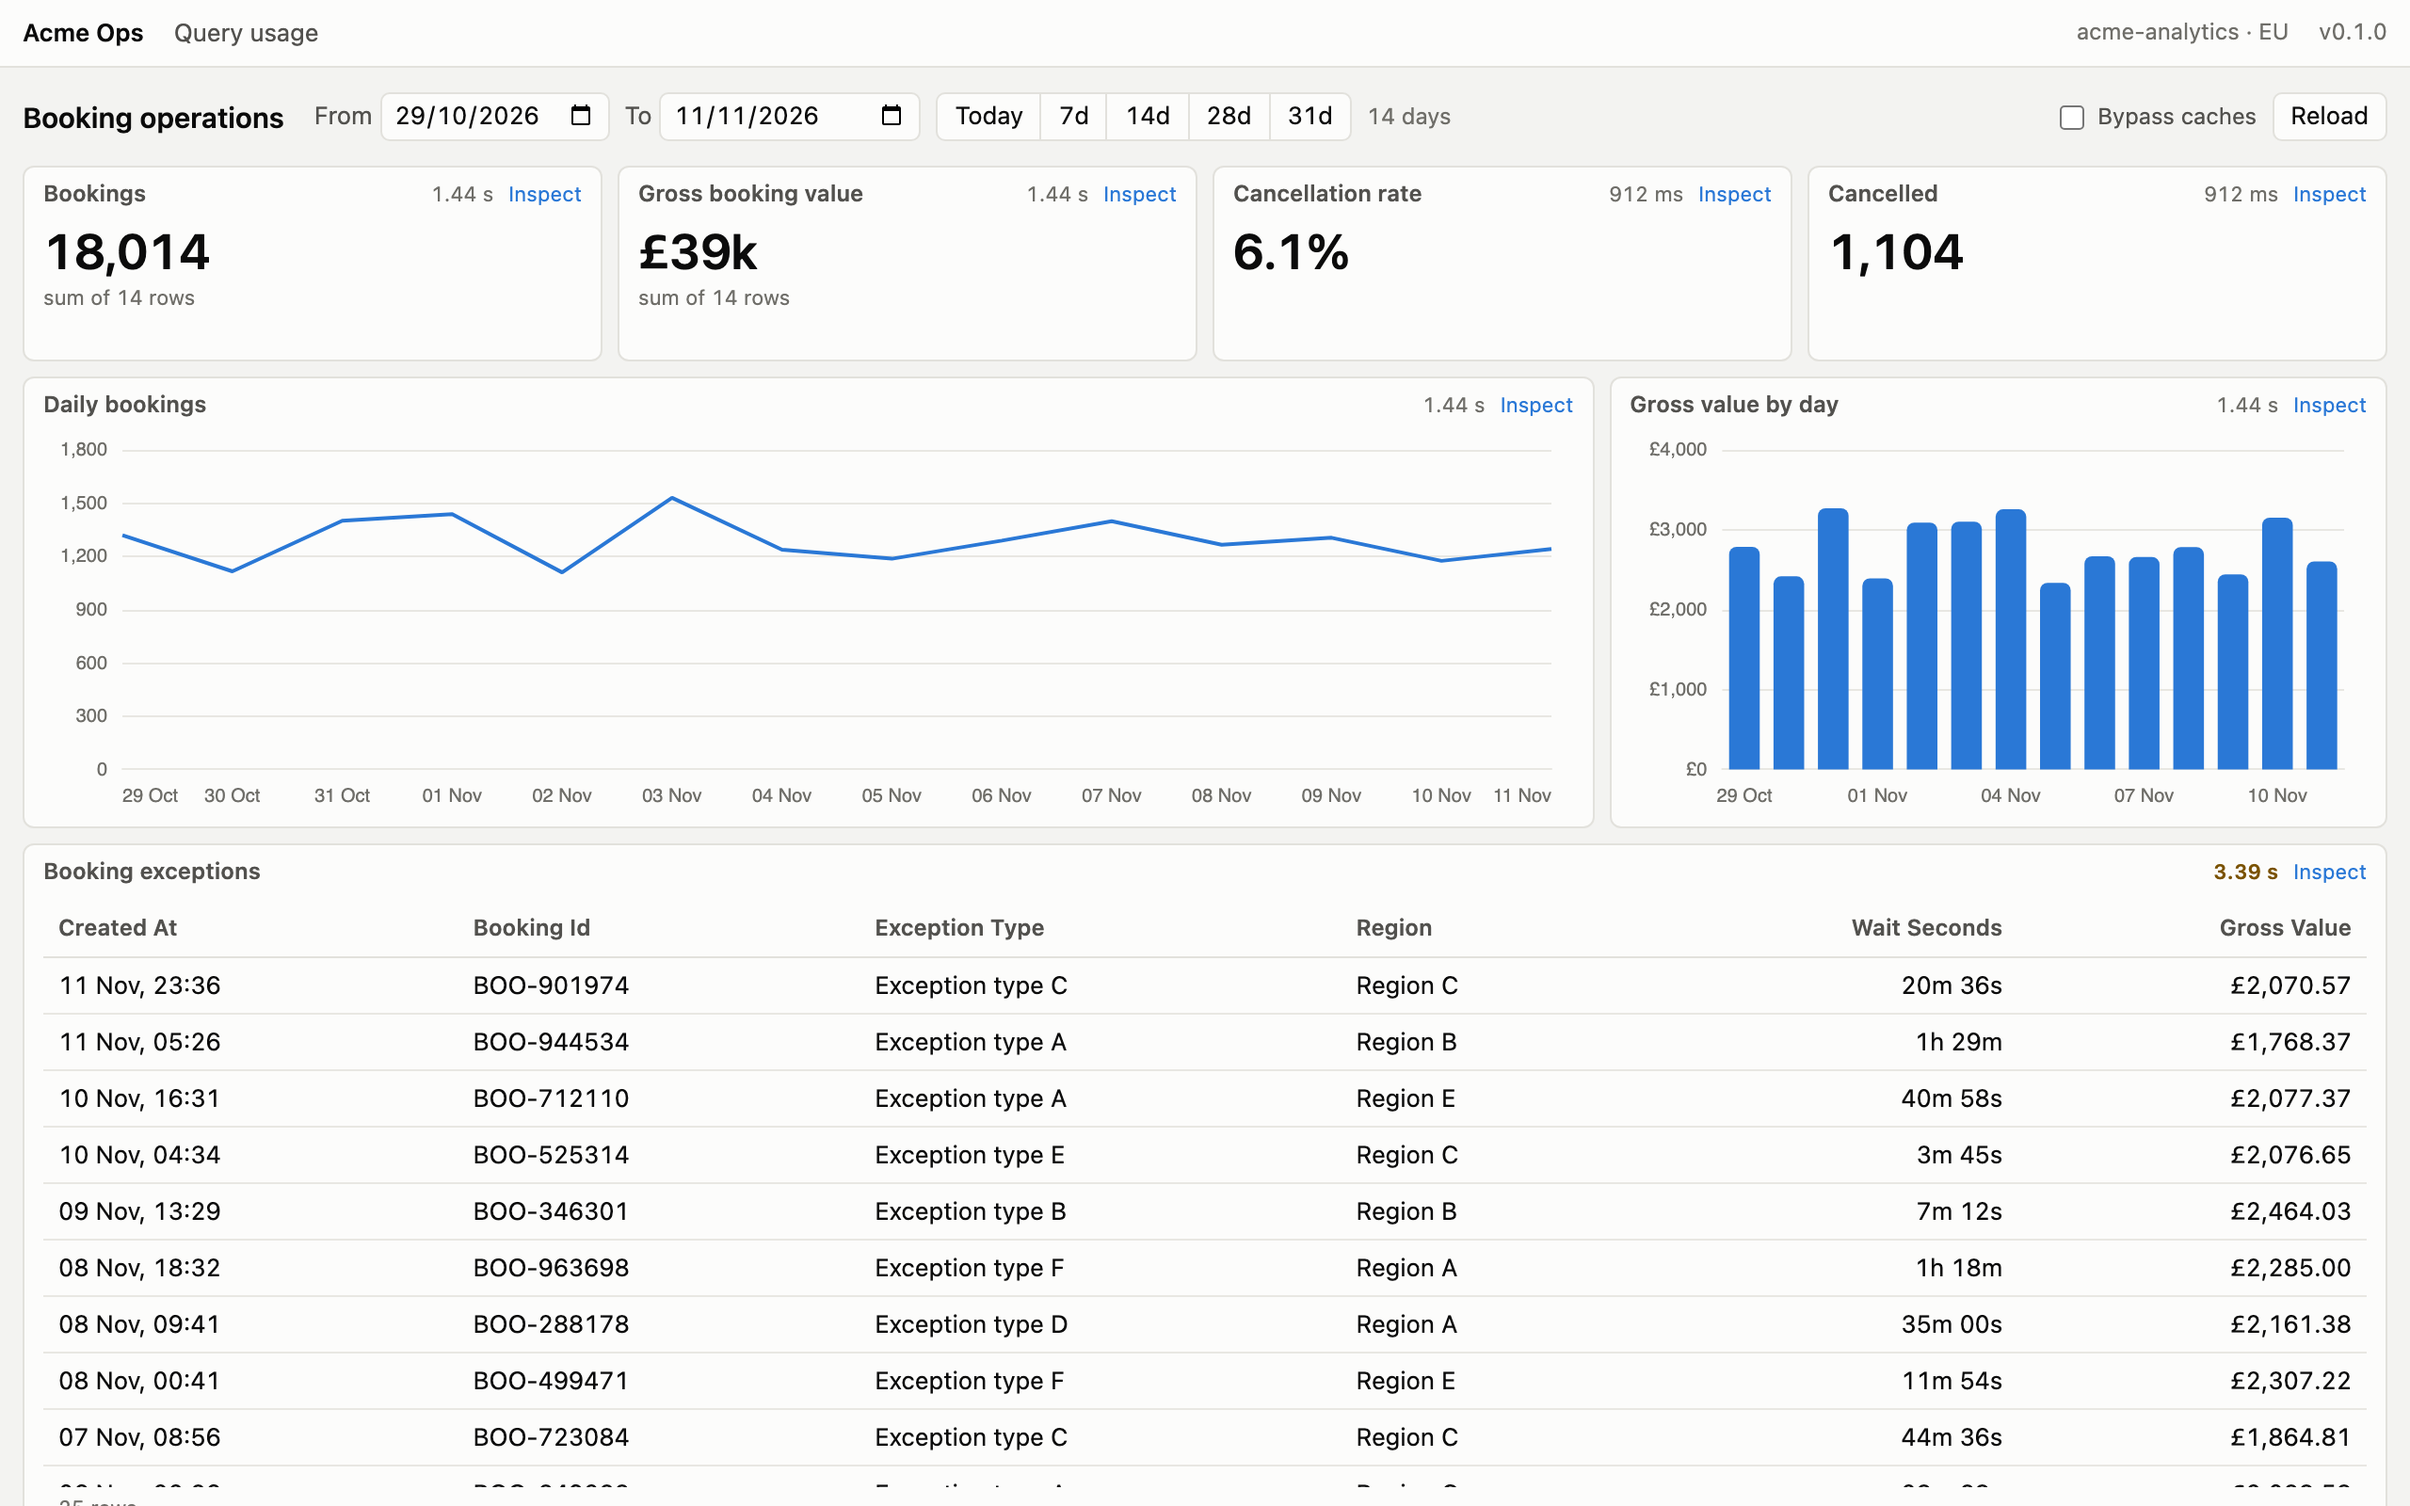
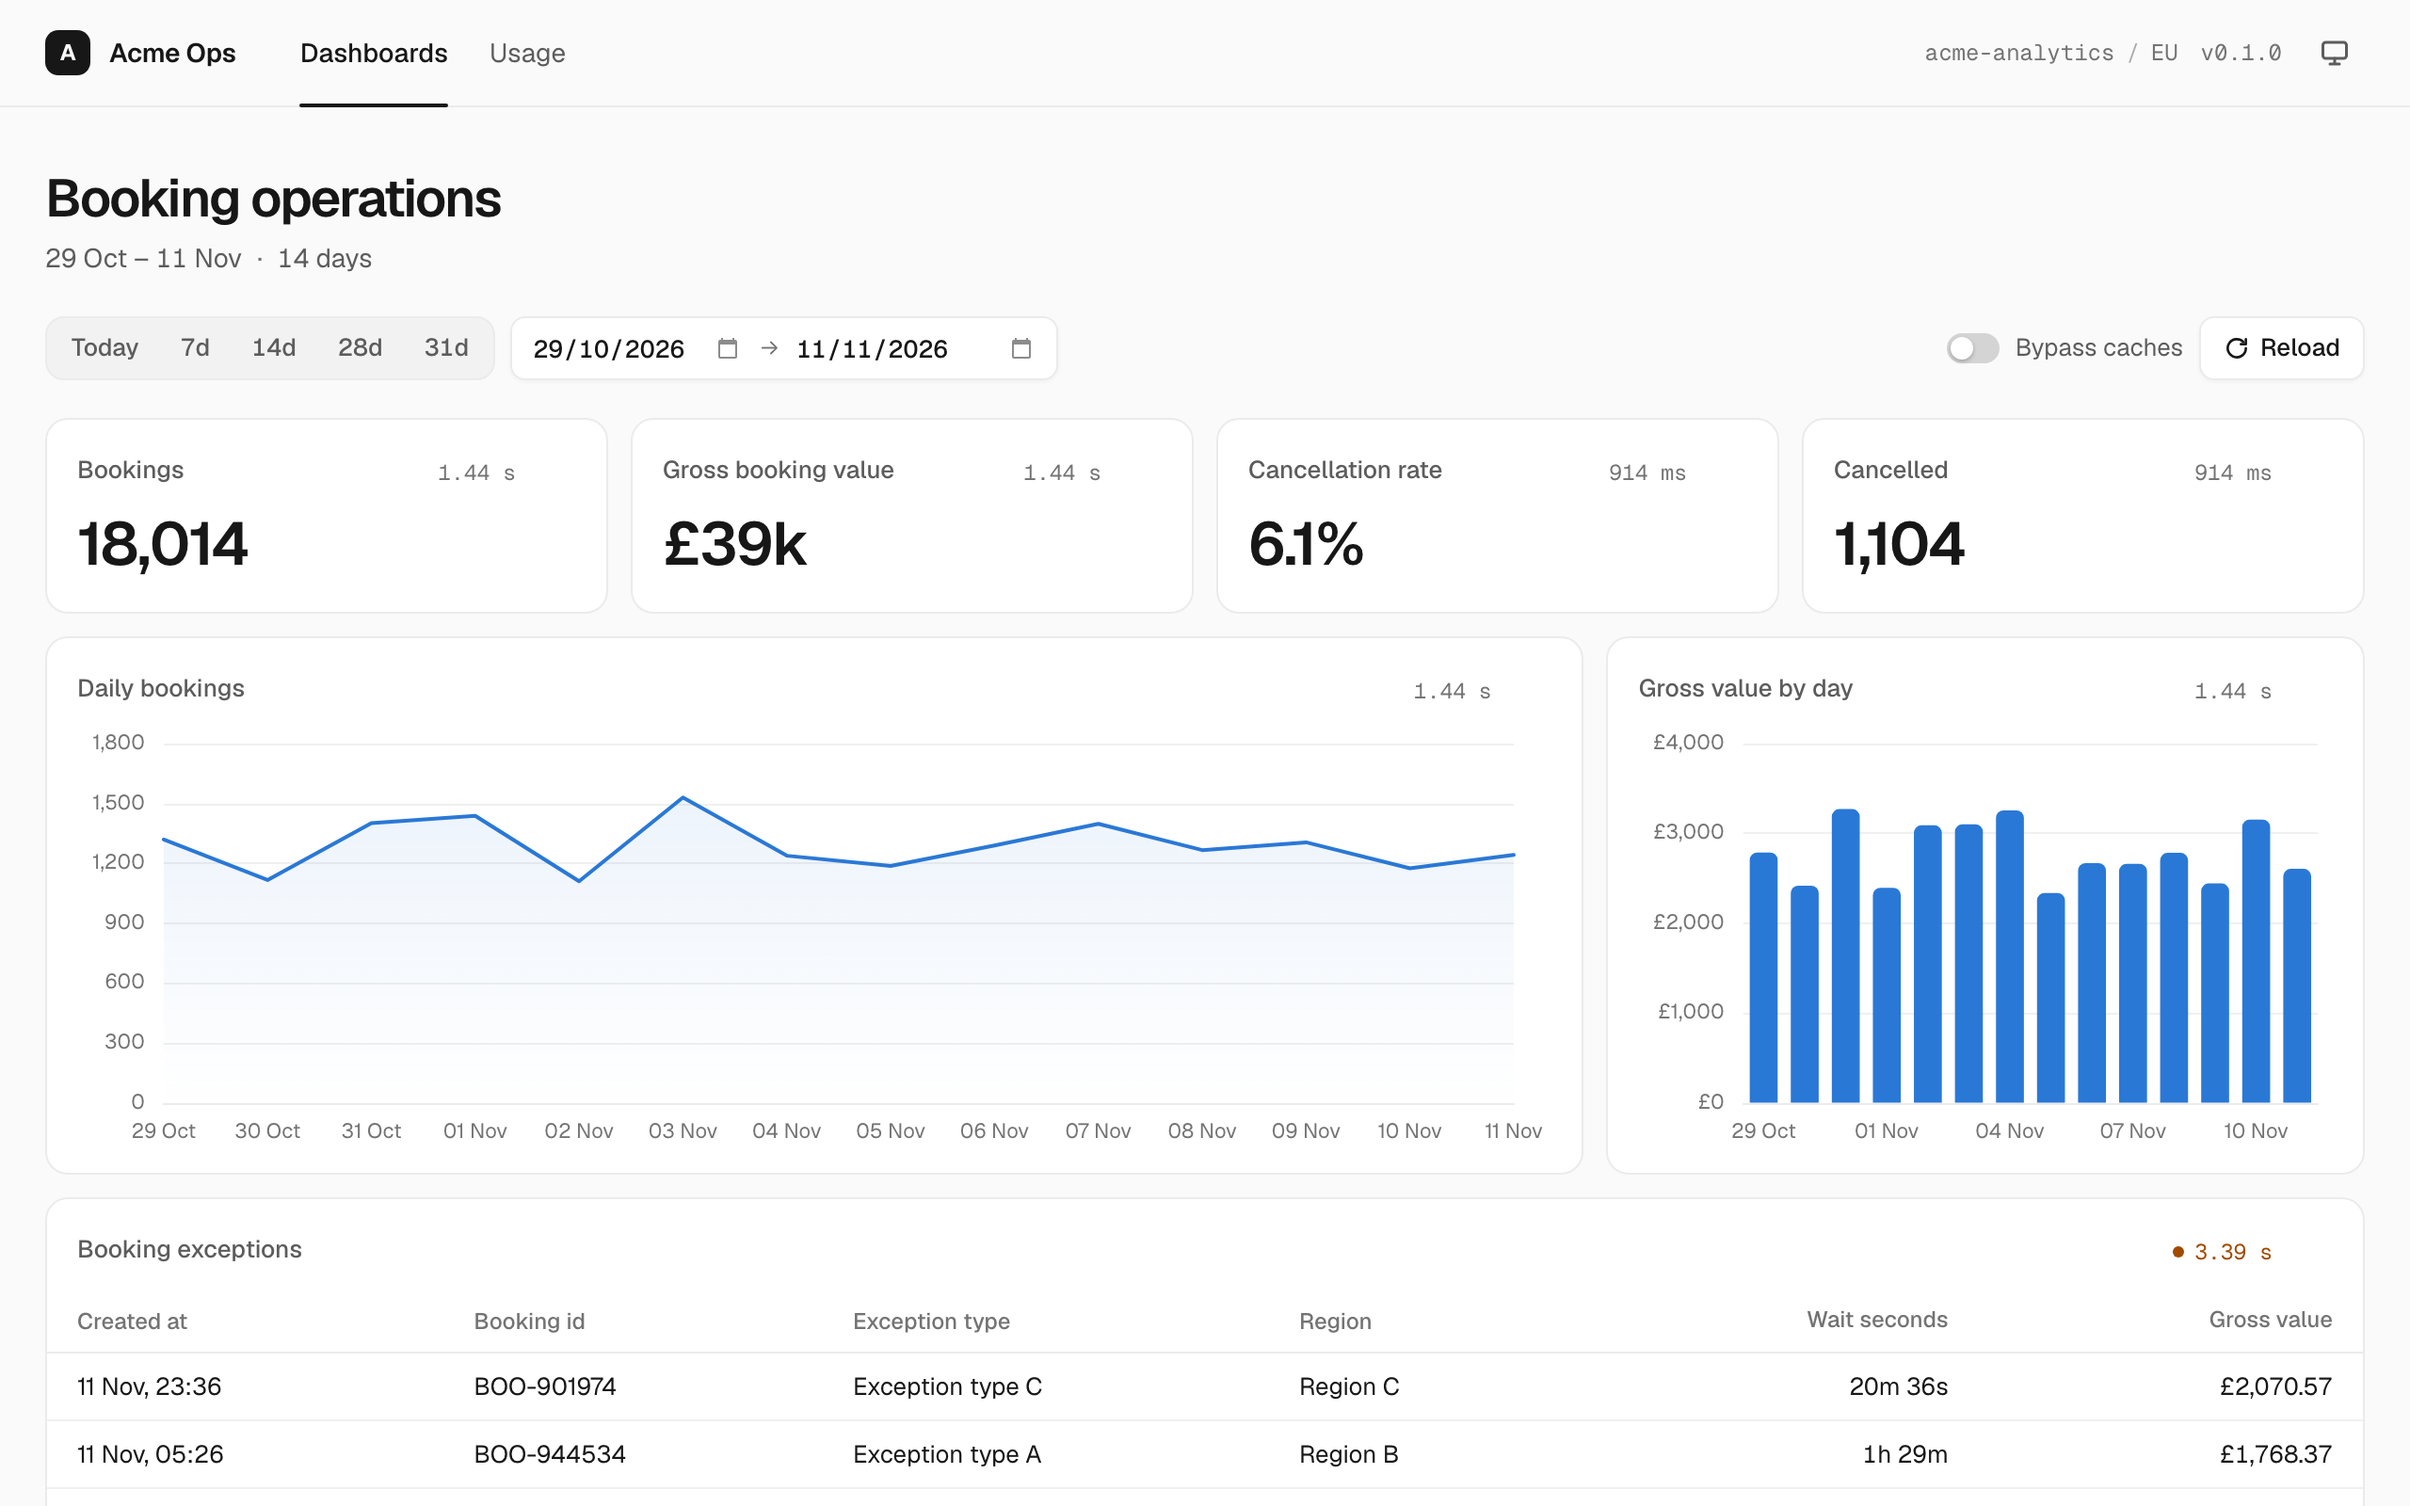
docs: refresh readme screenshots for the redesigned ui
Regenerate the dashboard, Inspect and Usage screenshots with the new
design, add a dark-mode hero that GitHub shows to dark-theme readers, and
update the text for hover-revealed Inspect, the slow-tile dot, themes and
column labels.

diff --git a/README.md b/README.md
@@ -18,10 +18,13 @@ SQL version.
 bqdash init my-ops && cd my-ops && bqdash up --fixture
 ```
 
-![A bqdash dashboard: four KPIs, a daily trend, a bar chart and an exceptions table, each tile showing its load time and an Inspect link](docs/dashboard.png)
+<picture>
+  <source media="(prefers-color-scheme: dark)" srcset="docs/dashboard-dark.png">
+  <img alt="A bqdash dashboard: four KPIs, a daily trend, a bar chart and an exceptions table, each tile showing its load time" src="docs/dashboard.png">
+</picture>
 
 *Illustrative data from the test project, shown in live mode against a simulated warehouse.
-The exceptions tile is highlighted because it took over 3 seconds to load.*
+The amber dot marks a tile that took over 3 seconds to load.*
 
 ## What you get
 
@@ -30,11 +33,14 @@ The exceptions tile is highlighted because it took over 3 seconds to load.*
   requests, like any other code.
 - **One command to launch:** `bqdash up` checks the project, your credentials and the engine
   version, then serves the dashboard on 127.0.0.1 and opens the browser.
-- **Dense by default:** compact filter bar, 30 px table rows, sticky headers,
-  right-aligned numbers, and explicit money, percent and duration formats. You choose what
-  goes on the page; bqdash decides how it looks.
-- **Cost on every tile:** **Inspect** opens the BigQuery job behind a tile: queue and
-  execution time, bytes billed, slots, cache hit, the exact SQL version and a console link.
+- **Calm and dense by default:**
+  - Geist type, hairline cards, and light, dark or system themes.
+  - Sticky table headers, right-aligned numbers, and explicit money, percent and duration
+    formats.
+  - You choose what goes on the page; bqdash decides how it looks.
+- **Cost on every tile:** hover a tile and click **Inspect** to open the BigQuery job behind
+  it: queue and execution time, bytes billed, slots, cache hit, the exact SQL version and
+  a console link.
 - **One job per query:** tiles that share a query share one job, and identical concurrent
   requests share one in-flight job. A warm reload submits nothing.
 - **Guard rails:** typed and validated params, a single read-only `SELECT` per query,
@@ -101,6 +107,7 @@ title: Daily bookings
 params: {start_date: DATE, end_date: DATE}
 columns: {day: DATE, bookings: INT64, gross_value: NUMERIC}
 formats: {gross_value: money}
+labels: {gross_value: Gross value (GBP)}     # optional display names
 ```
 
 ```sql
@@ -149,7 +156,7 @@ and markdown `text`. `bqdash guide dashboards` has the full reference.
 <td width="45%"><img src="docs/inspect.png" alt="Inspect drawer: request, BigQuery job link, queue/execution timing bar, bytes billed, slots, estimated cost, SQL version and the SQL"></td>
 <td>
 
-**Inspect** on any tile opens the run behind it:
+**Inspect** (hover any tile) opens the run behind it:
 - the filters used, and whether the result came from a new job, a shared job or the app cache
 - the BigQuery job, with a console link
 - a queue, execution and transfer timing bar
@@ -246,7 +253,7 @@ documents every key.
 | `no Google credentials found` | Run `gcloud auth application-default login` |
 | `this project needs bqdash …` | Install a version inside the project's `engine:` range |
 | A tile says the job exceeded the bytes limit | `bqdash dry-run <query>`; filter on the partition column, or raise `maximum_bytes_billed` deliberately |
-| A tile shows `truncated` | The result passed the row cap; aggregate more in SQL or add `LIMIT @limit` |
+| A tile shows **Truncated** | The result passed the row cap; aggregate more in SQL or add `LIMIT @limit` |
 | A tile timed out | The job keeps running; its stats are reconciled later. Check **Query usage** or run `bqdash reconcile` |
 | `agent files differ from this engine version` | Run `bqdash agents sync` |
 | `refusing to overwrite` on `init` | Use an empty or new directory |
